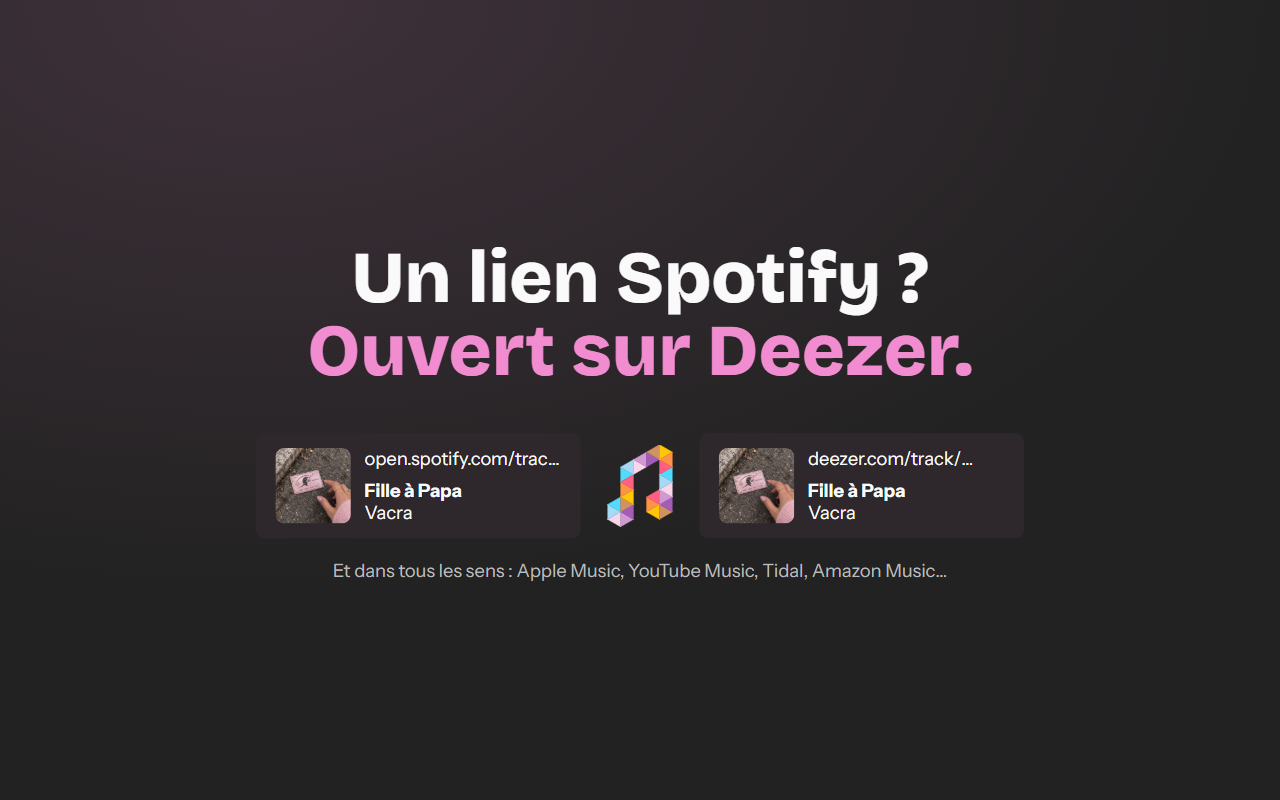
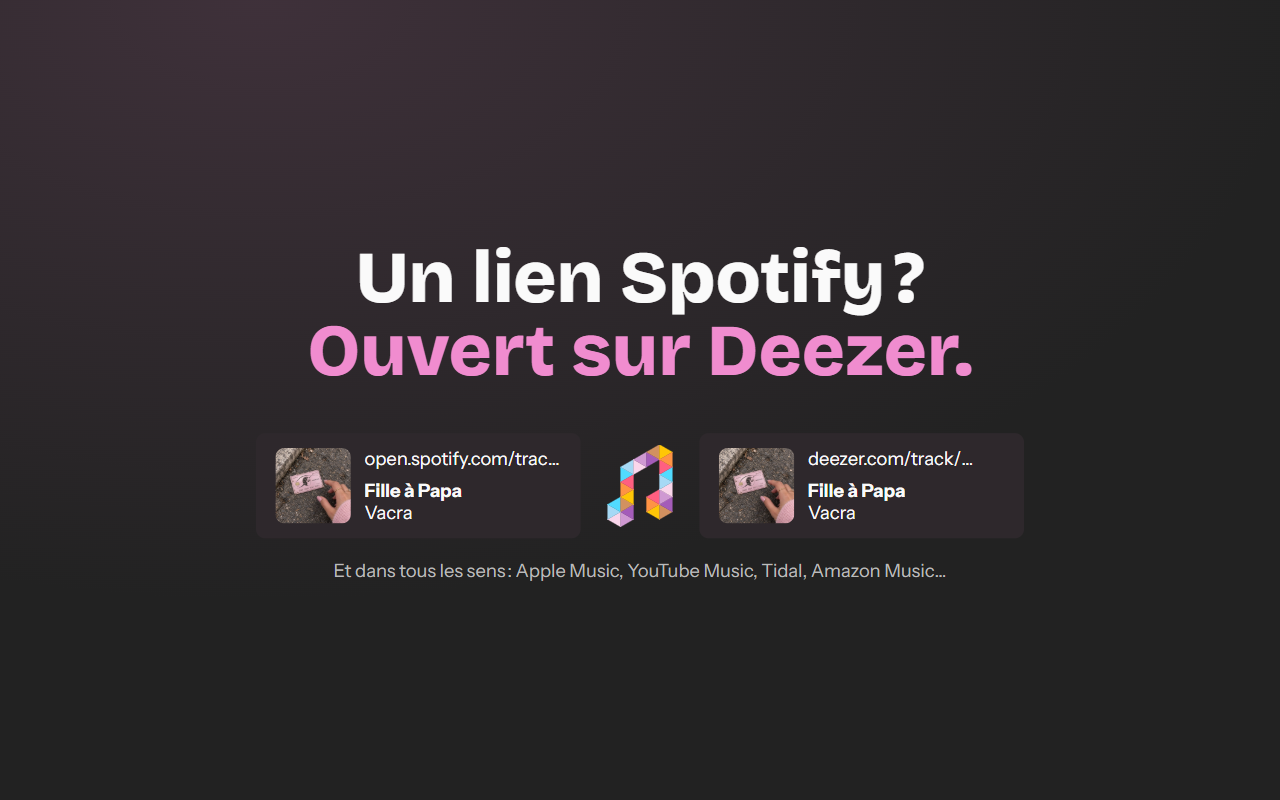
fix: narrow no-break spaces in French texts
Between a word and ? ! ; : and inside « », in the French messages, store listings, captions and screenshots.

Changed region(s): [[0.25, 0.3125, 0.75, 0.4062], [0.25, 0.6875, 0.7188, 0.7188]]

diff --git a/extensions/music-bridge/scripts/screenshots.ts b/extensions/music-bridge/scripts/screenshots.ts
@@ -45,9 +45,9 @@ const TEXTS: Record<string, { question: string; answer: string; more: string; pl
     platforms: 'All your tracks and albums, on the platform you choose',
   },
   fr: {
-    question: 'Un lien Spotify ?',
+    question: 'Un lien Spotify ?',
     answer: 'Ouvert sur Deezer.',
-    more: 'Et dans tous les sens : Apple Music, YouTube Music, Tidal, Amazon Music…',
+    more: 'Et dans tous les sens : Apple Music, YouTube Music, Tidal, Amazon Music…',
     platforms: 'Tous vos titres et albums, sur la plateforme de votre choix',
   },
 };

diff --git a/extensions/music-bridge/store/description-fr.md b/extensions/music-bridge/store/description-fr.md
@@ -1,9 +1,9 @@
-Vous tombez sur une chanson d'une plateforme de streaming que vous n'utilisez pas ? Music Bridge l'ouvre sur la vôtre.
+Vous tombez sur une chanson d'une plateforme de streaming que vous n'utilisez pas ? Music Bridge l'ouvre sur la vôtre.
 
-Choisissez votre plateforme une fois dans les options de l'extension. Ensuite, chaque lien de titre ou d'album d'une autre plateforme vous emmène directement vers la même musique sur la vôtre : plus besoin de copier le titre pour le chercher.
+Choisissez votre plateforme une fois dans les options de l'extension. Ensuite, chaque lien de titre ou d'album d'une autre plateforme vous emmène directement vers la même musique sur la vôtre : plus besoin de copier le titre pour le chercher.
 
 - Les liens de Deezer, Spotify, Apple Music, YouTube Music, Amazon Music, Tidal et Pandora s'ouvrent sur n'importe laquelle d'entre elles, ou sur YouTube et SoundCloud.
-- Ouvrez la musique dans l'application de bureau de votre plateforme (Deezer, Spotify, Apple Music ; sur Windows et macOS), et fermez l'onglet resté ouvert si vous le souhaitez.
-- Sur Android, si l'application d'une autre plateforme est installée, ses liens s'ouvrent directement dedans sans passer par le navigateur : Music Bridge ne peut donc pas les rediriger.
+- Ouvrez la musique dans l'application de bureau de votre plateforme (Deezer, Spotify, Apple Music ; sur Windows et macOS), et fermez l'onglet resté ouvert si vous le souhaitez.
+- Sur Android, si l'application d'une autre plateforme est installée, ses liens s'ouvrent directement dedans sans passer par le navigateur : Music Bridge ne peut donc pas les rediriger.
 
-Confidentialité : l'adresse de la page du titre ou de l'album que vous ouvrez est envoyée au service de redirection de Music Bridge, qui trouve la même musique avec l'API Odesli (song.link). Rien d'autre n'est collecté, et vos réglages restent dans votre navigateur.
+Confidentialité : l'adresse de la page du titre ou de l'album que vous ouvrez est envoyée au service de redirection de Music Bridge, qui trouve la même musique avec l'API Odesli (song.link). Rien d'autre n'est collecté, et vos réglages restent dans votre navigateur.

diff --git a/extensions/music-bridge/store/privacy-fr.md b/extensions/music-bridge/store/privacy-fr.md
@@ -1,9 +1,9 @@
 Music Bridge ne collecte aucune donnée personnelle et ne demande aucun compte.
 
-Quand vous ouvrez la page d'un titre ou d'un album sur une plateforme de streaming, l'extension envoie l'adresse de cette page au service de redirection de Music Bridge (https://music-bridge.bricodage.fr/, ou https://music-bridge-redirect.smndhm.workers.dev/ s'il est injoignable). Le service retrouve la même musique avec l'API Odesli (https://odesli.co/) et vous redirige vers elle sur la plateforme choisie. Rien d'autre n'est envoyé : aucune autre page visitée, aucun identifiant, aucun historique.
+Quand vous ouvrez la page d'un titre ou d'un album sur une plateforme de streaming, l'extension envoie l'adresse de cette page au service de redirection de Music Bridge (https://music-bridge.bricodage.fr/, ou https://music-bridge-redirect.smndhm.workers.dev/ s'il est injoignable). Le service retrouve la même musique avec l'API Odesli (https://odesli.co/) et vous redirige vers elle sur la plateforme choisie. Rien d'autre n'est envoyé : aucune autre page visitée, aucun identifiant, aucun historique.
 
-Le service de redirection fonctionne sur Cloudflare Workers. Ses journaux gardent quelques jours l'adresse de la page, la plateforme choisie, la redirection et le pays de la requête (tel que Cloudflare l'indique), pour corriger les erreurs ; ils ne servent à rien d'autre et ne sont pas partagés.
+Le service de redirection fonctionne sur Cloudflare Workers. Ses journaux gardent quelques jours l'adresse de la page, la plateforme choisie, la redirection et le pays de la requête (tel que Cloudflare l'indique), pour corriger les erreurs ; ils ne servent à rien d'autre et ne sont pas partagés.
 
 Vos réglages (la plateforme choisie, l'ouverture dans l'application de bureau, la fermeture de l'onglet) restent dans votre navigateur.
 
-Questions : https://github.com/smndhm/web-extensions/issues
+Questions : https://github.com/smndhm/web-extensions/issues

diff --git a/extensions/dzr-link/store/description-fr.md b/extensions/dzr-link/store/description-fr.md
@@ -1,10 +1,10 @@
-**Deezer Link est remplacé par [Music Bridge](https://addons.mozilla.org/firefox/addon/music-bridge/)**, du même développeur : choisissez Deezer et cochez « Ouvrir les liens dans l'application de bureau » dans ses options, et il ouvre les liens Deezer dans l'application de bureau, ainsi que les liens Spotify, Apple Music ou YouTube Music sur Deezer. Deezer Link ne sera plus mis à jour.
+**Deezer Link est remplacé par [Music Bridge](https://addons.mozilla.org/firefox/addon/music-bridge/)**, du même développeur : choisissez Deezer et cochez « Ouvrir les liens dans l'application de bureau » dans ses options, et il ouvre les liens Deezer dans l'application de bureau, ainsi que les liens Spotify, Apple Music ou YouTube Music sur Deezer. Deezer Link ne sera plus mis à jour.
 
-Vous cliquez sur un lien Deezer et vous vous retrouvez dans le navigateur ? Deezer Link l'ouvre plutôt dans l'application de bureau, là où vous voulez écouter.
+Vous cliquez sur un lien Deezer et vous vous retrouvez dans le navigateur ? Deezer Link l'ouvre plutôt dans l'application de bureau, là où vous voulez écouter.
 
-- Fonctionne avec tous les liens : titres, albums, playlists, artistes, podcasts, avec ou sans langue dans l'adresse (deezer.com/fr/…, deezer.com/pt-br/…).
-- Rien à configurer : installez-la, puis ouvrez un lien.
+- Fonctionne avec tous les liens : titres, albums, playlists, artistes, podcasts, avec ou sans langue dans l'adresse (deezer.com/fr/…, deezer.com/pt-br/…).
+- Rien à configurer : installez-la, puis ouvrez un lien.
 - Sur Firefox, l'onglet resté ouvert se ferme tout seul.
-- Aucun pistage : l'extension n'envoie aucune donnée à son développeur.
+- Aucun pistage : l'extension n'envoie aucune donnée à son développeur.
 
 Nécessite l'application de bureau, donc non disponible sur ChromeOS.

diff --git a/extensions/music-bridge/store/description-chrome-fr.md b/extensions/music-bridge/store/description-chrome-fr.md
@@ -1,8 +1,8 @@
-Vous tombez sur une chanson d'une plateforme de streaming que vous n'utilisez pas ? Music Bridge l'ouvre sur la vôtre.
+Vous tombez sur une chanson d'une plateforme de streaming que vous n'utilisez pas ? Music Bridge l'ouvre sur la vôtre.
 
-Choisissez votre plateforme une fois dans les options de l'extension. Ensuite, chaque lien de titre ou d'album d'une autre plateforme vous emmène directement vers la même musique sur la vôtre : plus besoin de copier le titre pour le chercher.
+Choisissez votre plateforme une fois dans les options de l'extension. Ensuite, chaque lien de titre ou d'album d'une autre plateforme vous emmène directement vers la même musique sur la vôtre : plus besoin de copier le titre pour le chercher.
 
 - Fonctionne avec les principaux services de streaming, comme Deezer, Spotify, Apple Music et YouTube Music.
 - Ouvrez-la dans l'application de bureau, et fermez l'onglet resté ouvert si vous le souhaitez.
 
-Confidentialité : l'adresse de la page du titre ou de l'album que vous ouvrez est envoyée au service de redirection de Music Bridge, qui trouve la même musique avec l'API Odesli. Rien d'autre n'est collecté, et vos réglages restent dans votre navigateur.
+Confidentialité : l'adresse de la page du titre ou de l'album que vous ouvrez est envoyée au service de redirection de Music Bridge, qui trouve la même musique avec l'API Odesli. Rien d'autre n'est collecté, et vos réglages restent dans votre navigateur.

diff --git a/extensions/dzr-tab/store/description-fr.md b/extensions/dzr-tab/store/description-fr.md
@@ -1,6 +1,6 @@
 Deezer Tab remplace la page du nouvel onglet par un titre des playlists phares de Deezer. Chaque nouvel onglet affiche une chanson différente, sa pochette et un fond aux couleurs de la pochette.
 
 - Un clic sur la pochette, le titre ou l'artiste l'ouvre sur Deezer.
-- Le texte reste toujours lisible : sa couleur et le fond sont choisis pour un contraste conforme aux règles d'accessibilité WCAG.
-- Les titres sont gardés en cache une heure : la page s'ouvre vite, même quand l'API ne répond pas.
-- Sans compte ni pistage : l'extension n'envoie aucune donnée à son développeur.
+- Le texte reste toujours lisible : sa couleur et le fond sont choisis pour un contraste conforme aux règles d'accessibilité WCAG.
+- Les titres sont gardés en cache une heure : la page s'ouvre vite, même quand l'API ne répond pas.
+- Sans compte ni pistage : l'extension n'envoie aucune donnée à son développeur.

diff --git a/.changeset/french-narrow-spaces.md b/.changeset/french-narrow-spaces.md
@@ -1,0 +1,5 @@
+---
+'music-bridge': patch
+---
+
+In French, a narrow no-break space between a word and `?`, `!`, `;` or `:`, and inside « »: the punctuation never starts a line.
